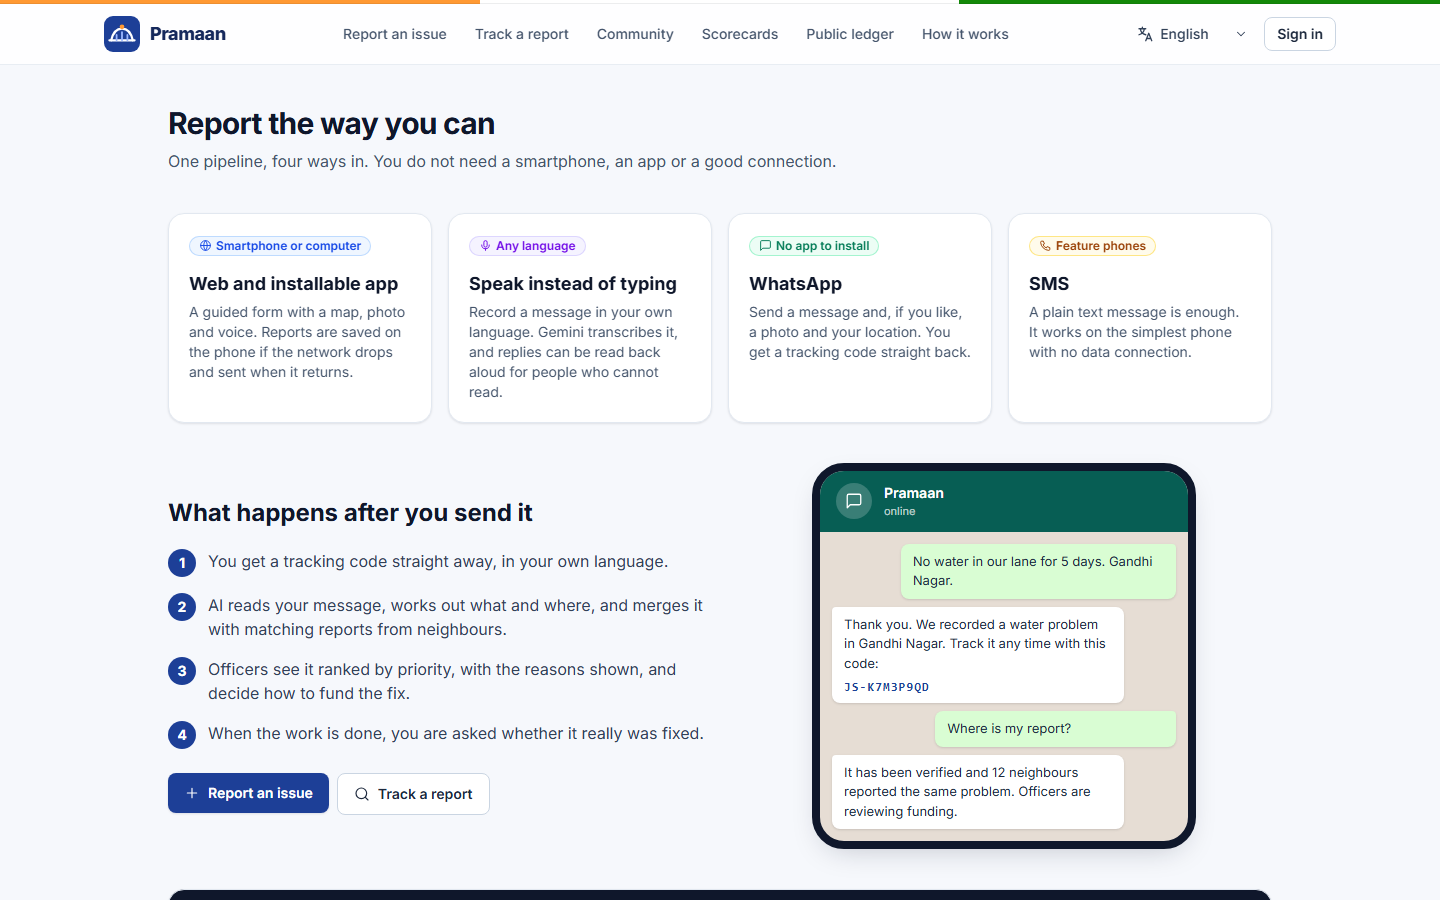
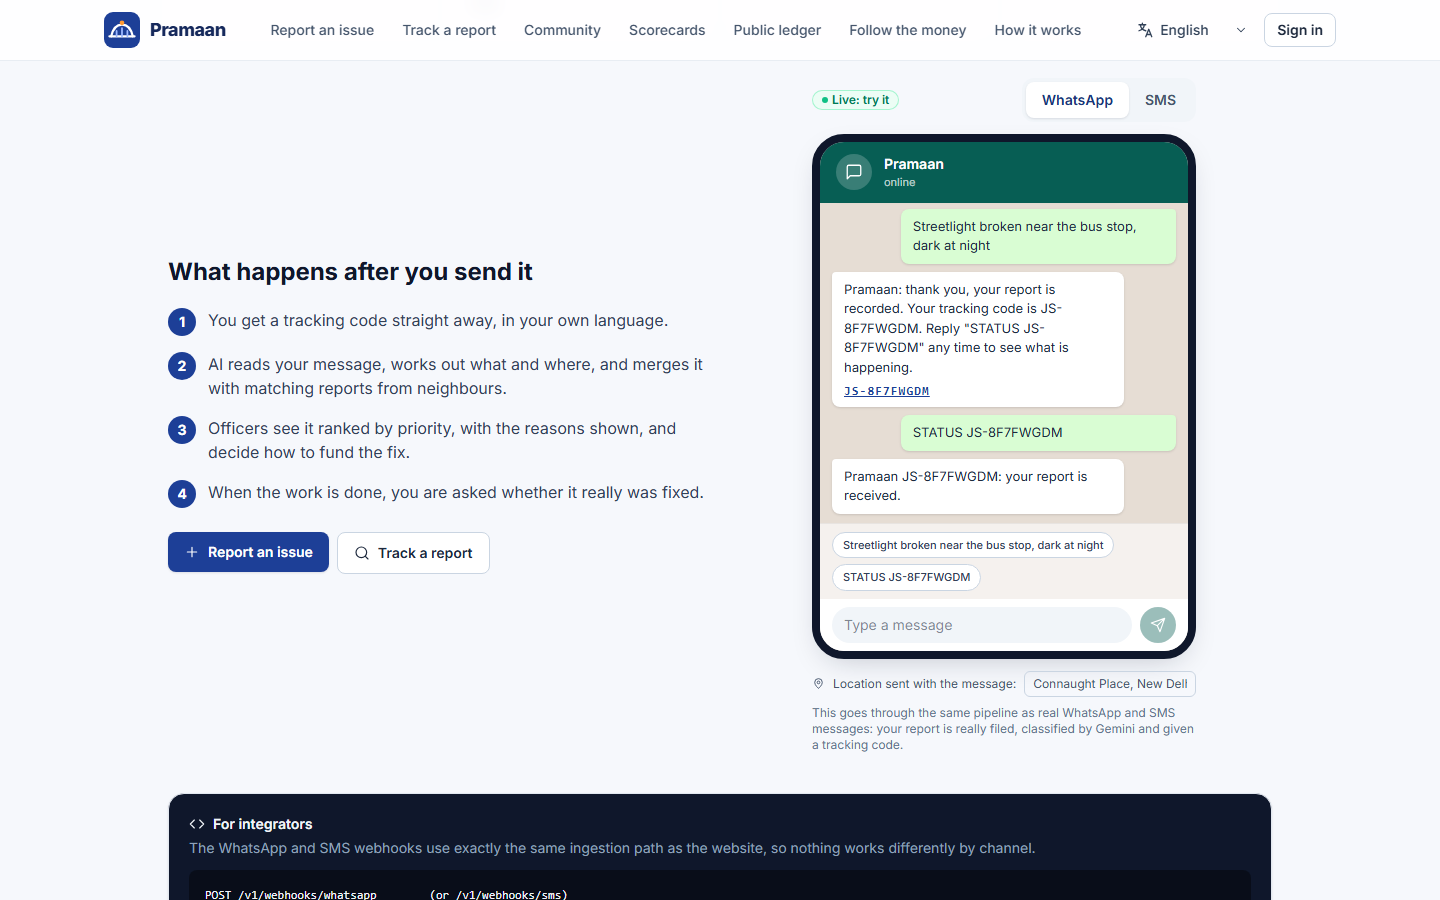
docs: README for need vs spend, scheme ledger, photo assist and SMS status, new screenshots

diff --git a/README.md b/README.md
@@ -75,9 +75,9 @@ Three audiences, one platform:
 
 | | Who | What they get |
 |---|---|---|
-| 🧑🤝🧑 | **Citizens** | Report in **11 languages** by voice, text or photo (web, installable offline app, WhatsApp, SMS). An *"is this already reported nearby?"* check before filing. A **tracking code** to follow the report with no account. Notifications. A **"was it really fixed?"** vote, which reopens the work if the majority says no. |
-| 🏛 | **Officers** (3 roles, jurisdiction-scoped) | Ranked, explainable priorities; a live map; **my queue** with SLA clocks and **automatic escalation**; assignment and internal notes; a **budget optimiser** with an equity floor; a **national scheme matcher**; a **grounded AI policy co-pilot**; early-warning forecasts; an equity audit; an impact ledger; a **printable AI weekly briefing**. |
-| 🌐 | **The public** | **District scorecards** graded A to E by a published formula; an impact ledger; **open data** (CSV + a try-it API); an architecture page. Aggregates only, k-anonymous, no login. |
+| 🧑🤝🧑 | **Citizens** | Report in **11 languages** by voice, text or photo (web, installable offline app, WhatsApp, SMS). **Snap a photo and Gemini writes the report** in your language, flagging safety hazards. From a basic phone, text **`STATUS <code>`** to hear where your report stands. An *"is this already reported nearby?"* check before filing. A **tracking code** to follow the report with no account. Notifications. A **"was it really fixed?"** vote, which reopens the work if the majority says no. |
+| 🏛 | **Officers** (3 roles, jurisdiction-scoped) | Ranked, explainable priorities; a live map; **my queue** with SLA clocks and **automatic escalation**; assignment and internal notes; a **budget optimiser** with an equity floor; a **national scheme matcher**; a **need-vs-spend map** that finds districts where need is high and investment is low; a **scheme impact ledger** (which central programmes actually deliver, and do citizens agree); a **grounded AI policy co-pilot**; early-warning forecasts; an equity audit; an impact ledger; a **printable AI weekly briefing**. |
+| 🌐 | **The public** | **Follow the money**: is investment reaching the districts that need it, and which schemes deliver. **District scorecards** graded A to E by a published formula; an impact ledger; a **live WhatsApp/SMS simulator**; **open data** (CSV + a try-it API); an architecture page. Aggregates only, k-anonymous, no login. |
 
 ---
 
@@ -108,10 +108,10 @@ Tracking code to try on `/track`, no login needed: **`JS-K7M3P9QD`**.
 
 | Criterion | Weight | Where Pramaan delivers it |
 |---|---|---|
-| **Problem–Solution Fit** | 20% | Every part of the problem statement has a feature: *fragmented* → multilingual, multichannel ingestion with **AI deduplication** (8 reports in Hindi and English collapse into one issue); *misaligned spending* → **explainable scoring**, a **budget optimiser** that reached **60% more people** than funding by report volume on the demo data, and a **national scheme matcher**; *unmeasured impact* → **citizen-confirmed resolution**, an **impact ledger** and **public scorecards**. |
-| **AI / Technical Execution** | 25% | Gemini classifies, translates, reads photos, transcribes voice and writes **grounded** briefs. Embeddings drive cross-language deduplication. The co-pilot uses **function calling over 8 real tools** with a 3-layer guardrail: numbers it cannot trace are removed and unanswerable questions are refused. A **model-fallback pool** keeps AI features alive when a model hangs or overloads. Exact **0/1-knapsack** optimisation with an equity reserve. ~300 unit and route tests plus a **60-check end-to-end run against real Gemini**. |
-| **Depth & Reach across India** | 20% | **11 languages** (10 Indian + Portuguese) across UI, voice and reports; **36 states and UTs** in the reference geography; web, installable **offline PWA**, **voice**, **WhatsApp** and **SMS** intake; screen-reader and keyboard accessible; works on a phone. **Brazil runs on the same codebase** as proof it travels. |
-| **Impact Potential** | 15% | Connects demand to real central schemes (PMGSY, JJM, AMRUT 2.0, SBM, NHM, Samagra Shiksha, RDSS, MPLADS, 15th FC grants...) with the centre/state split. Measures **people benefited**, **days to resolve**, **cost per person** and **citizen confirmation rate**. An **equity audit** checks that vulnerable areas are really served. **Graded escalation** (collector, then state admin) stops issues rotting. |
+| **Problem–Solution Fit** | 20% | Every part of the problem statement has a feature: *fragmented* → multilingual, multichannel ingestion with **AI deduplication** (8 reports in Hindi and English collapse into one issue); *misaligned spending* → **explainable scoring**, a **budget optimiser** that reached **60% more people** than funding by report volume on the demo data, a **national scheme matcher**, and a **need-vs-spend map** that measures the misalignment directly (on the demo data, need and investment correlate at just **r = 0.02**, and 8 districts with 2.4 crore people are underserved); *unmeasured impact* → **citizen-confirmed resolution**, an **impact ledger** and **public scorecards**. |
+| **AI / Technical Execution** | 25% | Gemini classifies, translates, reads photos, transcribes voice and writes **grounded** briefs. **Gemini Vision turns a photo into a drafted report** (category, severity, safety hazard) in the citizen's language. Embeddings drive cross-language deduplication. The co-pilot uses **function calling over 8 real tools** with a 3-layer guardrail: numbers it cannot trace are removed and unanswerable questions are refused. A **model-fallback pool** keeps AI features alive when a model hangs or overloads. Exact **0/1-knapsack** optimisation with an equity reserve. ~310 unit and route tests plus a **70-check end-to-end run against real Gemini**. |
+| **Depth & Reach across India** | 20% | **11 languages** (10 Indian + Portuguese) across UI, voice and reports; **36 states and UTs** in the reference geography; web, installable **offline PWA**, **voice**, **WhatsApp** and **SMS** intake, with **status by SMS** (`STATUS <code>`, also in Hindi, Tamil, Bengali and more) so a feature phone gets the whole loop; screen-reader and keyboard accessible; works on a phone. **Brazil runs on the same codebase** as proof it travels. |
+| **Impact Potential** | 15% | Connects demand to real central schemes (PMGSY, JJM, AMRUT 2.0, SBM, NHM, Samagra Shiksha, RDSS, MPLADS, 15th FC grants...) with the centre/state split. Measures **people benefited**, **days to resolve**, **cost per person** and **citizen confirmation rate**, overall and **per scheme** in a public **scheme impact ledger** that flags programmes that are slow or whose fixes citizens reject. An **equity audit** checks that vulnerable areas are really served. **Graded escalation** (collector, then state admin) stops issues rotting. |
 | **Deployability & Scalability** | 20% | Runs **entirely on free tiers** (Firebase Spark, Render, Gemini API key) via a one-file **Render blueprint**, or on **Cloud Run + BigQuery** for scale, from the same code. Stateless services, idempotent ingestion, a scheduled sweep/score/escalate job, security headers, request ids, rate limits. **Adding a state is a form; adding a country is a config document.** Runs locally with **no cloud account** on the Firebase emulators. |
 
 ---
@@ -136,12 +136,15 @@ Tracking code to try on `/track`, no login needed: **`JS-K7M3P9QD`**.
 |---|---|
 | ![My reports](docs/screenshots/40-citizen-my-reports.png) | ![Notifications](docs/screenshots/41-citizen-notifications.png) |
 
+| **Snap a photo, Gemini writes the report**: category, severity, safety hazard, in your language | **Live WhatsApp/SMS phone**: a real report and a `STATUS` reply, through the real pipeline |
+|---|---|
+| ![AI photo assist](docs/screenshots/12-ai-photo-assist.png) | ![Channels](docs/screenshots/08-whatsapp-sms.png) |
+
 | Profile, language and privacy (export or erase my data) | Works on a phone |
 |---|---|
 | ![Profile](docs/screenshots/42-citizen-profile.png) | <img src="docs/screenshots/51-mobile-report.png" width="300" alt="Mobile report" /> |
 
 <!-- 📷 SCREENSHOT SLOT: voice recording in progress (e.g. Hindi) -->
-<!-- 📷 SCREENSHOT SLOT: WhatsApp conversation with the tracking code reply -->
 
 ### For officers
 
@@ -157,9 +160,13 @@ Tracking code to try on `/track`, no login needed: **`JS-K7M3P9QD`**.
 |---|---|
 | ![Planner](docs/screenshots/24-budget-planner.png) | ![Weights lab](docs/screenshots/24c-weights-lab.png) |
 
-| **National schemes**: how much open work central programmes could fund | Map with forecast overlays |
+| **Need vs spend**: is money following need? Underserved districts, in one chart | **National schemes + scheme impact ledger**: what central programmes could fund, and which ones deliver |
 |---|---|
-| ![Schemes](docs/screenshots/25-national-schemes.png) | ![Map](docs/screenshots/23-console-map.png) |
+| ![Need vs spend](docs/screenshots/35-need-vs-spend.png) | ![Schemes](docs/screenshots/25-national-schemes.png) |
+
+| Map with forecast overlays | |
+|---|---|
+| ![Map](docs/screenshots/23-console-map.png) | |
 
 | Impact ledger: people benefited, days to fix, cost per person, citizen confirmation | **AI weekly briefing**: every figure computed, fact-checked, printable, in 11 languages |
 |---|---|
@@ -190,9 +197,9 @@ Tracking code to try on `/track`, no login needed: **`JS-K7M3P9QD`**.
 |---|---|
 | ![Scorecards](docs/screenshots/05-district-scorecards.png) | ![Ledger](docs/screenshots/06-public-ledger.png) |
 
-| Open data and a try-it API | WhatsApp and SMS: report from any phone |
+| **Follow the money**: need vs spend and the scheme ledger, for anyone | Open data and a try-it API |
 |---|---|
-| ![Open data](docs/screenshots/07-open-data-api.png) | ![Channels](docs/screenshots/08-whatsapp-sms.png) |
+| ![Follow the money](docs/screenshots/11-follow-the-money.png) | ![Open data](docs/screenshots/07-open-data-api.png) |
 
 | How it works, for anyone to inspect | |
 |---|---|
@@ -333,6 +340,7 @@ The switch between the two is configuration: `WORKER_URL` vs Pub/Sub, `REFERENCE
 |---|---|---|
 | **Understand** | Classifies the report (category, sub-category, severity), writes an English summary, detects the language and translates non-English reports for officers. | Structured-output schema with a stricter retry; if the model still fails, a raw-text fallback, so **a report is never dropped**. A citizen's personal emergency is routed out, not ranked. |
 | **See and hear** | Reads photos (does it show a real infrastructure problem?) and transcribes voice notes in the speaker's language. | A photo that doesn't match is flagged for review, never auto-rejected. |
+| **Photo to report** | While the citizen is still filling the form, Gemini Vision looks at their photo and drafts the description in their language, with category, severity and whether it is a safety hazard. | Only photos the app itself stored can be read; the draft only fills an empty box and the citizen can edit it; if the model is unavailable, the citizen simply types. |
 | **Deduplicate** | `gemini-embedding-001` embeds each summary; reports within the same area whose embeddings are similar (cosine ≥ 0.72, tuned on real Hindi/English pairs) merge into one issue. | Distinct *reporters* feed demand, not raw reports, so one person filing twelve times is one unit of demand. |
 | **Co-pilot** | Answers officers' questions with **function calling** over 8 tools: `query_fused_data`, `check_investment_status`, `get_priority_scores`, `simulate_priority`, `generate_brief`, `list_available_data`, `get_risk_forecasts`, `get_equity_audit`. | Three layers: tools only see the officer's jurisdiction; every number in the answer must appear in a tool result; any sentence with an untraceable number is dropped, and unanswerable questions are refused. |
 | **Briefs** | Project briefs and the **weekly briefing** in 11 languages. | Every figure is computed first. The model only rephrases, and the same numeric check removes any invented figure. If the model is down, a template briefing is served instead. |
@@ -355,6 +363,10 @@ priority = (0.40 × demand + 0.30 × vulnerability + 0.30 × gap) × duplication
 Every issue shows its full breakdown, the weights, and any data it had to substitute. Weights are configurable per deployment, and the **weights lab** lets a policymaker see how the ranking would change, without touching the official scores.
 
 **Budget optimiser.** Each eligible issue is worth `score × reach`, and costs its indicative budget. An **exact 0/1 knapsack** picks the set with the highest total value that fits the budget, with a guaranteed reserve spent first on high-vulnerability areas. It is shown next to the obvious alternative, funding by report volume. On the demo data at ₹1 Cr it reaches **28.7 lakh people vs 17.9 lakh (+60%)**, with more of the money going to vulnerable areas.
+
+**Need vs spend.** Every district gets a *need* rank (half official deprivation indices, half distinct people with unresolved reports per 100,000 residents) and a *spend* rank (investment per person over the last four fiscal years), both as percentiles within the country. High need with low spend is **underserved**. The correlation between the two says, in one number, whether money follows need. Publicly, report counts are withheld for districts with fewer than 5 open issues.
+
+**Scheme impact ledger.** Every project records the national scheme paying for it (the best match automatically; a collector can correct it, audited). Per scheme: money committed and the central share, projects delivered, days to fix, cost per person reached, and the share of reporters who confirmed the fix. A scheme is flagged **slow** above 90 days, or with **quality concerns** below 70% citizen confirmation.
 
 **Deadlines.** Open issues get a response deadline by priority (emergency 2 days, high 7, medium 21, low 45). A missed deadline escalates to the **district collector**; missing it by a further full window escalates to the **state administrator** (the CPGRAMS pattern).
 
@@ -413,7 +425,7 @@ Jurisdiction is a **region tree** (country → state → district). An officer c
 │   └── ai-prompts/             Versioned prompts and response schemas
 ├── scripts/
 │   ├── seed-demo-data/         Reference geography (36 states/UTs + Brazil), multilingual demo dataset
-│   ├── smoke-emulator.ts       60-check end-to-end test against the real worker and Gemini
+│   ├── smoke-emulator.ts       70-check end-to-end test against the real worker and Gemini
 │   ├── translate-i18n.ts       Gemini translation of UI strings, placeholder-safe
 │   └── create-officer.ts       Officer account tooling
 ├── docs/                       PRD, architecture, data model, AI pipeline, API spec, security, deployment
@@ -424,16 +436,16 @@ Jurisdiction is a **region tree** (country → state → district). An officer c
 
 ## 🔌 API overview
 
-56 gateway routes under `/v1` (full spec: [`docs/API_SPEC.md`](docs/API_SPEC.md)). Highlights:
+63 gateway routes under `/v1` (full spec: [`docs/API_SPEC.md`](docs/API_SPEC.md)). Highlights:
 
 | Area | Examples |
 |---|---|
-| **Ingest** | `POST /submissions` (idempotent), `POST /media`, `POST /webhooks/whatsapp`, `POST /webhooks/sms` |
+| **Ingest** | `POST /submissions` (idempotent), `POST /media`, `POST /assist/photo` (Gemini Vision draft), `POST /webhooks/whatsapp`, `POST /webhooks/sms` (report, or `STATUS <code>`) |
 | **Citizen** | `GET /my-reports`, `GET /notifications`, `POST /projects/:id/confirm-resolution`, `POST /issues/:id/support` |
 | **Console** | `GET /issues`, `GET /issues/:id`, `POST /issues/:id/status`, `POST /issues/:id/assign`, `POST /issues/:id/comments`, `GET /activity` |
-| **Funding** | `GET /issues/:id/schemes`, `GET /schemes/alignment`, `POST /planner/optimize`, `POST /planner/plans/:id/approve`, `POST /planner/simulate-weights` |
+| **Funding** | `GET /issues/:id/schemes`, `GET /schemes/alignment`, `POST /planner/optimize`, `POST /planner/plans/:id/approve`, `POST /planner/simulate-weights`, `GET /analytics/need-vs-spend`, `GET /schemes/performance`, `POST /projects/:id/scheme` |
 | **Intelligence** | `POST /agent/sessions/:id/messages` (co-pilot, streamed), `GET /reports/briefing`, `GET /analytics/impact`, `GET /forecasts`, `GET /equity-audit` |
-| **Public** (no login) | `GET /public/track/:code`, `POST /public/track/:code/confirm`, `GET /public/nearby`, `GET /public/scorecards`, `GET /public/impact`, `GET /public/opendata/issues.csv` |
+| **Public** (no login) | `GET /public/track/:code`, `POST /public/track/:code/confirm`, `GET /public/nearby`, `GET /public/scorecards`, `GET /public/impact`, `GET /public/need-vs-spend`, `GET /public/schemes/performance`, `POST /public/demo/message` (channel simulator), `GET /public/opendata/issues.csv` |
 | **Jobs** (shared secret) | `POST /jobs/escalations` (gateway), `POST /jobs/sweep`, `POST /jobs/score` (worker) |
 
 ## 🛡 Security, privacy and trust
@@ -450,8 +462,8 @@ Jurisdiction is a **region tree** (country → state → district). An officer c
 | Check | Result |
 |---|---|
 | Typecheck, all 7 packages | ✅ clean |
-| Unit and route tests (Vitest) | ✅ ~300 passing: gateway 193, worker 46, shared utils 39, web 16, scripts 5 |
-| **End-to-end smoke test** on the emulators with **real Gemini** | ✅ **60 / 60** |
+| Unit and route tests (Vitest) | ✅ ~310 passing: gateway 203, worker 46, shared utils 39, web 16, scripts 5 |
+| **End-to-end smoke test** on the emulators with **real Gemini** | ✅ **70 / 70** |
 | UI tour of 30 screens (desktop + phone) on the production build | ✅ zero browser errors |
 | CI on every pull request | ✅ typecheck + test + build |
 
@@ -463,7 +475,8 @@ The smoke test (`scripts/smoke-emulator.ts`) drives the whole product the way pe
 - the project is funded, completed and **confirmed by the citizens**; three confirmations alone do **not** resolve it until an officer signs off;
 - an **anonymous** reporter confirms by code, a **"not fixed"** vote **reopens** the work and alerts the officer, and one code gets one vote;
 - an issue 53 days past a 7-day deadline **escalates to the state admin**, and escalation is not repeated;
-- the WhatsApp webhook rejects callers without the provider secret.
+- the WhatsApp webhook rejects callers without the provider secret, and an SMS `STATUS <code>` is answered from live data;
+- need vs spend ranks districts and refuses other jurisdictions, the public version withholds small counts, and the scheme ledger credits the finished project to its scheme (which only a collector may correct).
 
 ---
 
@@ -484,7 +497,7 @@ npx firebase-tools@13.35.1 emulators:start --only auth --project pramaan-a0c00
 export FIRESTORE_EMULATOR_HOST=127.0.0.1:8085 FIREBASE_AUTH_EMULATOR_HOST=127.0.0.1:9099 FIREBASE_PROJECT_ID=pramaan-a0c00
 
 cd apps/worker-ai-pipeline && PORT=8081 WORKER_SHARED_SECRET=localsecret ./node_modules/.bin/tsx src/index.ts
-cd apps/api-gateway && PORT=8080 WORKER_URL=http://localhost:8081 WORKER_SHARED_SECRET=localsecret WEBHOOK_SHARED_SECRET=localsecret ./node_modules/.bin/tsx src/index.ts
+cd apps/api-gateway && PORT=8080 WORKER_URL=http://localhost:8081 WORKER_SHARED_SECRET=localsecret WEBHOOK_SHARED_SECRET=localsecret DEMO_CHANNEL_SIMULATOR=true ./node_modules/.bin/tsx src/index.ts
 cd apps/web && VITE_API_BASE_URL=http://localhost:8080/v1 VITE_FIREBASE_API_KEY=fake VITE_FIREBASE_AUTH_EMULATOR_URL=http://127.0.0.1:9099 ./node_modules/.bin/vite --port 5173 --strictPort
 
 # 3. Seed (from scripts/, with the worker running; it prints the demo logins)
@@ -517,10 +530,12 @@ Production secrets: `FIREBASE_SERVICE_ACCOUNT_JSON`, `FIREBASE_WEB_API_KEY`, `GE
 | Time | Show | Say |
 |---|---|---|
 | 0:00 | Landing page | "The same pothole is reported ten times in five languages, and money still goes to whoever shouts loudest. Pramaan fixes the whole chain." |
-| 0:30 | `/report` in Hindi, by voice | Report in your own language. Get a tracking code, no account needed. |
+| 0:30 | `/report`: add a photo, then speak in Hindi | **Gemini writes the report from the photo** and flags the safety hazard. Get a tracking code, no account needed. |
+| 0:50 | `/channels` live phone | Send an SMS, get a code; text `STATUS <code>`, get the answer. The whole loop works on a feature phone. |
 | 1:00 | Issue detail | Gemini classified it, translated it and **merged 8 reports from 8 people** into one issue. The score is fully explained. |
 | 1:45 | Budget planner (`national@`) at ₹1 Cr, 30% reserve | "**60% more people reached** than funding the loudest issues, and more of it in vulnerable areas." Then the weights lab. |
-| 2:30 | National schemes | "About half of this work (51%) could be paid by central schemes: AMRUT 2.0, NHM, Swachh Bharat." |
+| 2:15 | Need vs spend (`national@`) | "Need and investment correlate at **0.02**: money is not following need. 8 districts, 2.4 crore people, are underserved." |
+| 2:30 | National schemes + ledger | "About half of this work (51%) could be paid by central schemes. And the ledger shows which schemes actually deliver, as confirmed by citizens." |
 | 3:00 | Co-pilot, then the weekly briefing in Tamil | Grounded answers; numbers it cannot trace are removed. |
 | 3:40 | Project → mark complete → `/track` → "not fixed" | A "not fixed" vote **reopens the work**. Only citizens plus an officer sign-off close it. |
 | 4:20 | Scorecards, open data | Every district graded in public, and every number downloadable. |
